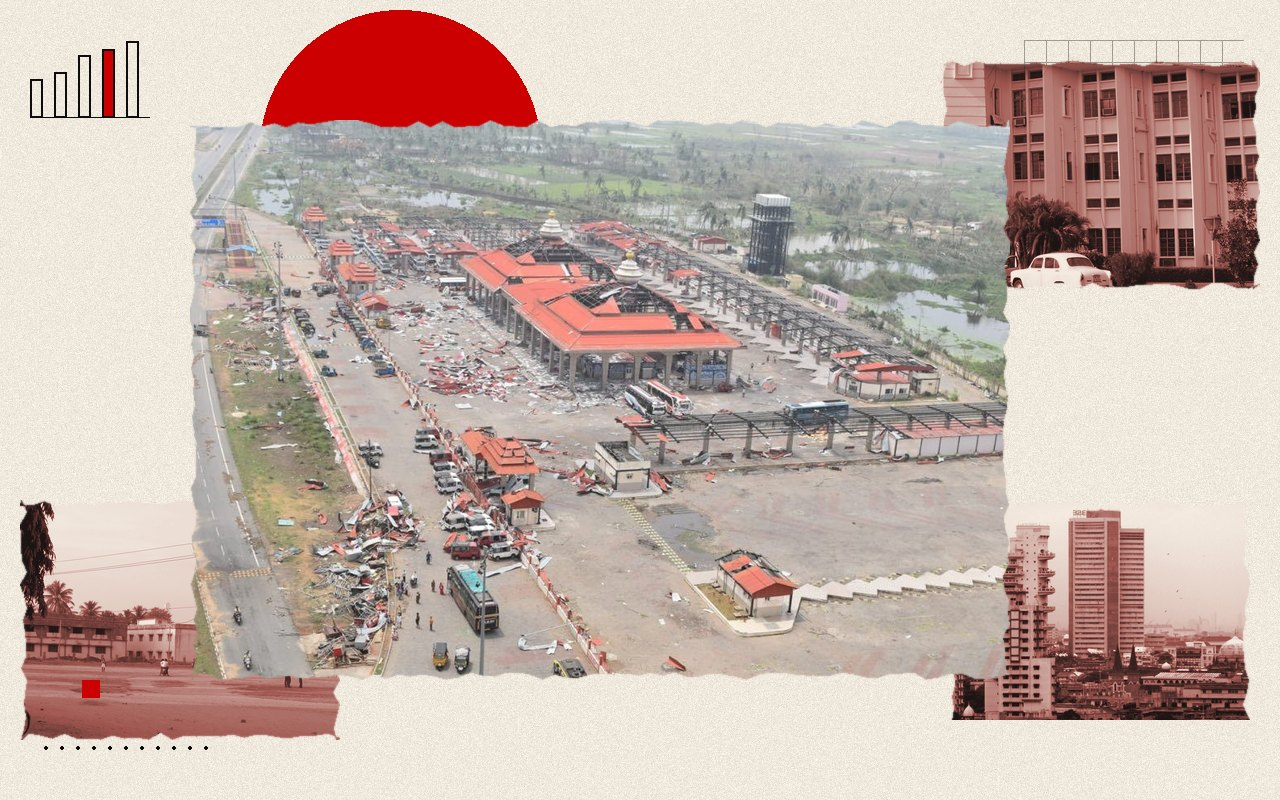
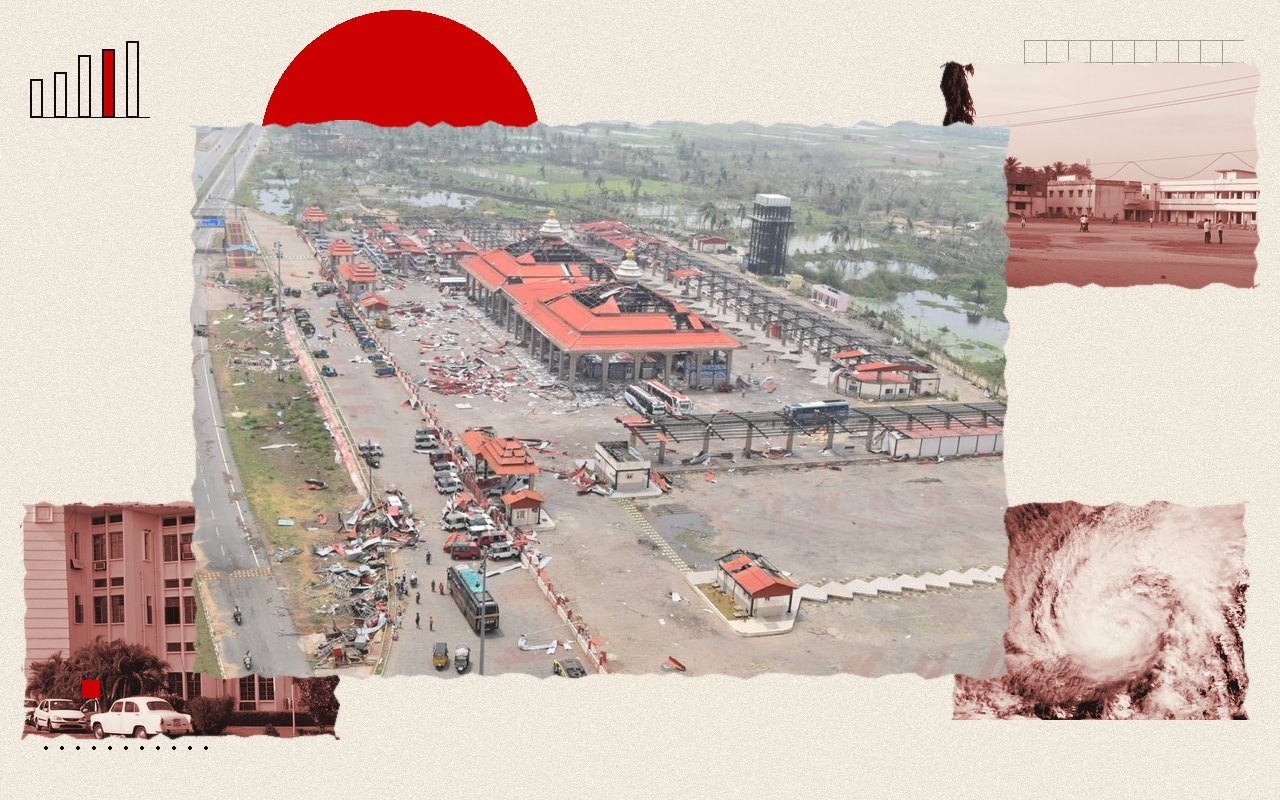
Hourly 17:00 IST (second publish): collage fix for odisha-akvan-damage-assessment-100-year-flood-plan
- The collage had a Bombay Stock Exchange tile and then an IIT Delhi / HCLTech tile behind an Odisha cyclone story; remade with Odisha scenes only (Rayagada town, Lok Seva Bhavan Bhubaneswar, a Bay of Bengal cyclone from space). Related links extended to earlier Arnab and Bay of Bengal cyclone stories.

Claude-Session: https://claude.ai/code/session_01C3zerX93QWYzVW3U1i1D6t

Changed region(s): [[0.7188, 0.0625, 1.0, 0.375], [0.0, 0.625, 0.2812, 0.9375], [0.7188, 0.625, 1.0, 0.9062]]

diff --git a/content/hi/news/odisha-akvan-damage-assessment-100-year-flood-plan.md b/content/hi/news/odisha-akvan-damage-assessment-100-year-flood-plan.md
@@ -36,7 +36,7 @@ infographic:
     - {date: "22 नवंबर", text: "नुकसान का आकलन शुरू", icon: calendar}
     - {date: "23 नवंबर", text: "उत्तराखंड गई अध्ययन टीम की वापसी", icon: users}
   source: "मंत्री सुरेश पुजारी और विशेष राहत आयुक्त राजेश पी पाटिल के 21 नवंबर 2026 के बयान"
-related: [akvan-deep-depression-monday-imd-landfall-night-nov-19, ganjam-landslide-toll-seven-odisha-seeks-2526-crore, odisha-five-instream-storage-projects-625-crore, akvan-rain-bengal-jharkhand-rabi-sowing-fog-imd]
+related: [akvan-deep-depression-monday-imd-landfall-night-nov-19, odisha-cancels-collectors-leave-schools-shut-cyclone-arnab, bay-of-bengal-depression-october-25-odisha-fishermen-warning, cyclone-arnab-deep-depression-imd-landfall-bapatla-visakhapatnam, ganjam-landslide-toll-seven-odisha-seeks-2526-crore, odisha-five-instream-storage-projects-625-crore, akvan-rain-bengal-jharkhand-rabi-sowing-fog-imd]
 seo:
   title: "ओडिशा में अकवान से नुकसान का आकलन शुरू, 100 साल की बाढ़ योजना"
   description: "ओडिशा में 22 नवंबर से चक्रवात अकवान के नुकसान का आकलन शुरू होगा; आईआईटी रुड़की की मदद से आठ नदी प्रणालियों के लिए 100 साल की बाढ़ योजना बन रही है।"

diff --git a/content/en/news/odisha-akvan-damage-assessment-100-year-flood-plan.md b/content/en/news/odisha-akvan-damage-assessment-100-year-flood-plan.md
@@ -35,7 +35,7 @@ infographic:
     - {date: "Nov 22", text: "Damage assessment begins", icon: calendar}
     - {date: "Nov 23", text: "Uttarakhand study team due back", icon: users}
   source: "Statements of Odisha Minister Suresh Pujari and Special Relief Commissioner Rajesh P Patil, November 21, 2026"
-related: [akvan-deep-depression-monday-imd-landfall-night-nov-19, ganjam-landslide-toll-seven-odisha-seeks-2526-crore, odisha-five-instream-storage-projects-625-crore, akvan-rain-bengal-jharkhand-rabi-sowing-fog-imd]
+related: [akvan-deep-depression-monday-imd-landfall-night-nov-19, odisha-cancels-collectors-leave-schools-shut-cyclone-arnab, bay-of-bengal-depression-october-25-odisha-fishermen-warning, cyclone-arnab-deep-depression-imd-landfall-bapatla-visakhapatnam, ganjam-landslide-toll-seven-odisha-seeks-2526-crore, odisha-five-instream-storage-projects-625-crore, akvan-rain-bengal-jharkhand-rabi-sowing-fog-imd]
 seo:
   title: "Odisha begins Akvan damage assessment, 100-year flood plan"
   description: "Odisha begins assessing Cyclone Akvan damage on November 22 and is preparing a 100-year flood roadmap for eight river systems with IIT Roorkee's help."
